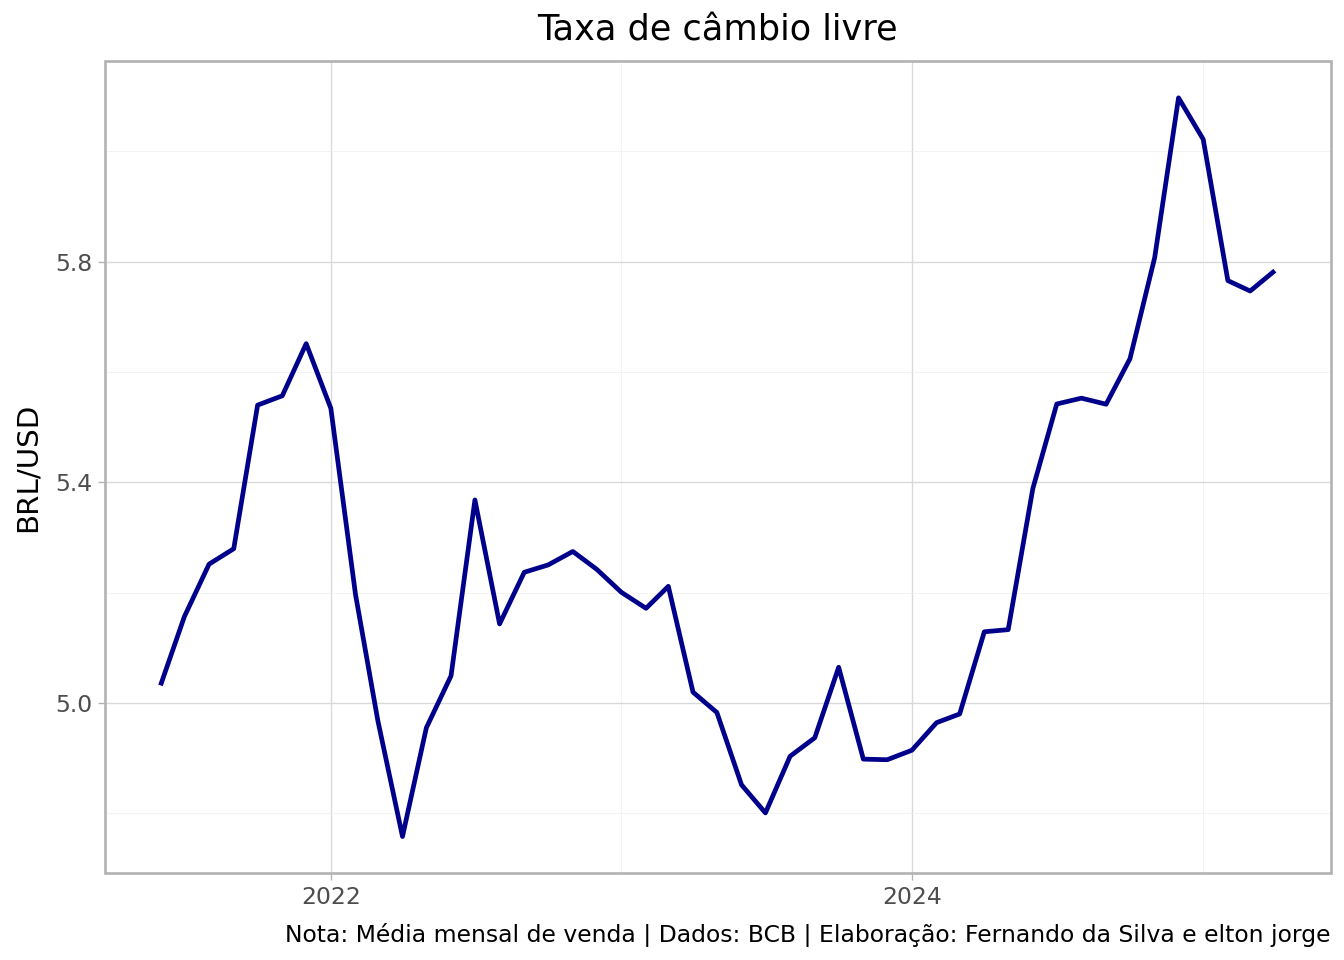
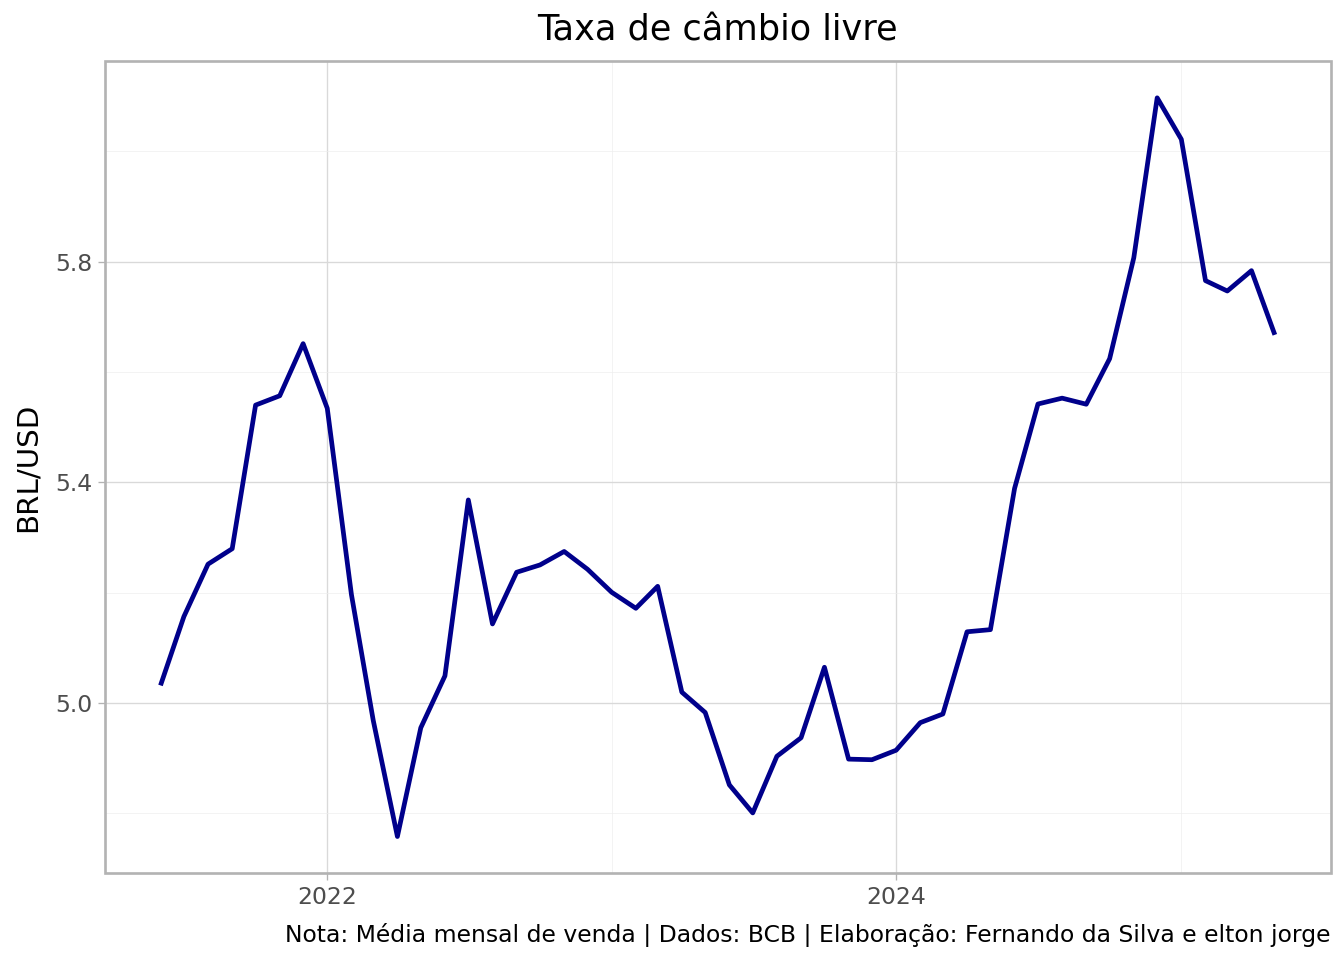
Automação de relatorio/Dashboard

diff --git a/relatorio/relatorio.html b/relatorio/relatorio.html
@@ -110,7 +110,7 @@ pre > code.sourceCode > span > a:first-child::before { text-decoration: underlin
 <section id="bibliotecas" class="level2">
 <h2 class="anchored" data-anchor-id="bibliotecas">Bibliotecas</h2>
 <p>Primeiro é necessário importar as bibliotecas de Python (e instalar caso não estejam instalados ainda) para usar as funções úteis de coleta, tratamento e visualização de dados:</p>
-<div id="04f79bc5" class="cell" data-execution_count="1">
+<div id="b47d989f" class="cell" data-execution_count="1">
 <div class="sourceCode cell-code" id="cb1"><pre class="sourceCode python code-with-copy"><code class="sourceCode python"><span id="cb1-1"><a href="#cb1-1" aria-hidden="true" tabindex="-1"></a><span class="co"># Importar bibliotecas</span></span>
 <span id="cb1-2"><a href="#cb1-2" aria-hidden="true" tabindex="-1"></a><span class="im">from</span> bcb <span class="im">import</span> sgs</span>
 <span id="cb1-3"><a href="#cb1-3" aria-hidden="true" tabindex="-1"></a><span class="im">import</span> pandas <span class="im">as</span> pd</span>
@@ -120,7 +120,7 @@ pre > code.sourceCode > span > a:first-child::before { text-decoration: underlin
 <section id="dados" class="level2">
 <h2 class="anchored" data-anchor-id="dados">Dados</h2>
 <p>Em seguida é necessário identificar o código da série temporal desejada no sistema SGS/BCB e utilizar este código para obter os dados com a bibliotecas <code>python-bcb</code>:</p>
-<div id="08907668" class="cell" data-execution_count="2">
+<div id="fbf2c3ac" class="cell" data-execution_count="2">
 <div class="sourceCode cell-code" id="cb2"><pre class="sourceCode python code-with-copy"><code class="sourceCode python"><span id="cb2-1"><a href="#cb2-1" aria-hidden="true" tabindex="-1"></a><span class="co"># Coleta de dados</span></span>
 <span id="cb2-2"><a href="#cb2-2" aria-hidden="true" tabindex="-1"></a>dados <span class="op">=</span> sgs.get(</span>
 <span id="cb2-3"><a href="#cb2-3" aria-hidden="true" tabindex="-1"></a>    codes <span class="op">=</span> {<span class="st">"cambio"</span>: <span class="dv">3698</span>},</span>
@@ -128,7 +128,7 @@ pre > code.sourceCode > span > a:first-child::before { text-decoration: underlin
 <span id="cb2-5"><a href="#cb2-5" aria-hidden="true" tabindex="-1"></a>    )</span></code><button title="Copy to Clipboard" class="code-copy-button"><i class="bi"></i></button></pre></div>
 </div>
 <p>Os dados brutos obtidos no SGS/BCB são exibidos abaixo:</p>
-<div id="79863bd8" class="cell" data-execution_count="3">
+<div id="e27e4a73" class="cell" data-execution_count="3">
 <div class="sourceCode cell-code" id="cb3"><pre class="sourceCode python code-with-copy"><code class="sourceCode python"><span id="cb3-1"><a href="#cb3-1" aria-hidden="true" tabindex="-1"></a>dados.tail()</span></code><button title="Copy to Clipboard" class="code-copy-button"><i class="bi"></i></button></pre></div>
 <div class="cell-output cell-output-display" data-execution_count="3">
 <div>
@@ -147,24 +147,24 @@ pre > code.sourceCode > span > a:first-child::before { text-decoration: underlin
 </thead>
 <tbody>
 <tr class="odd">
-<td data-quarto-table-cell-role="th">2024-12-01</td>
-<td>6.0970</td>
-</tr>
-<tr class="even">
 <td data-quarto-table-cell-role="th">2025-01-01</td>
 <td>6.0218</td>
 </tr>
-<tr class="odd">
+<tr class="even">
 <td data-quarto-table-cell-role="th">2025-02-01</td>
 <td>5.7656</td>
 </tr>
-<tr class="even">
+<tr class="odd">
 <td data-quarto-table-cell-role="th">2025-03-01</td>
 <td>5.7468</td>
 </tr>
-<tr class="odd">
+<tr class="even">
 <td data-quarto-table-cell-role="th">2025-04-01</td>
 <td>5.7837</td>
+</tr>
+<tr class="odd">
+<td data-quarto-table-cell-role="th">2025-05-01</td>
+<td>5.6674</td>
 </tr>
 </tbody>
 </table>
@@ -173,14 +173,14 @@ pre > code.sourceCode > span > a:first-child::before { text-decoration: underlin
 </div>
 </div>
 <p>Abaixo criamos uma colunna adicional com a informação do índice da tabela:</p>
-<div id="7f13ba71" class="cell" data-execution_count="4">
+<div id="e2c35c8d" class="cell" data-execution_count="4">
 <div class="sourceCode cell-code" id="cb4"><pre class="sourceCode python code-with-copy"><code class="sourceCode python"><span id="cb4-1"><a href="#cb4-1" aria-hidden="true" tabindex="-1"></a>dados <span class="op">=</span> dados.assign(data <span class="op">=</span> dados.index)</span></code><button title="Copy to Clipboard" class="code-copy-button"><i class="bi"></i></button></pre></div>
 </div>
 </section>
 <section id="visualização-de-dados" class="level2">
 <h2 class="anchored" data-anchor-id="visualização-de-dados">Visualização de Dados</h2>
 <p>Por fim, pode ser utilizado um pacote de visualização de dados como o <code>plotnine</code> para gerar um gráfico de linha com a série da taxa de câmbio:</p>
-<div id="200b7626" class="cell" data-execution_count="5">
+<div id="87300de4" class="cell" data-execution_count="5">
 <div class="sourceCode cell-code" id="cb5"><pre class="sourceCode python code-with-copy"><code class="sourceCode python"><span id="cb5-1"><a href="#cb5-1" aria-hidden="true" tabindex="-1"></a><span class="co"># Gráfico de linha</span></span>
 <span id="cb5-2"><a href="#cb5-2" aria-hidden="true" tabindex="-1"></a>grafico <span class="op">=</span>(p9.ggplot(data <span class="op">=</span> dados) <span class="op">+</span></span>
 <span id="cb5-3"><a href="#cb5-3" aria-hidden="true" tabindex="-1"></a>  p9.aes(x <span class="op">=</span> <span class="st">"data"</span>, y <span class="op">=</span> <span class="st">"cambio"</span>) <span class="op">+</span></span>
